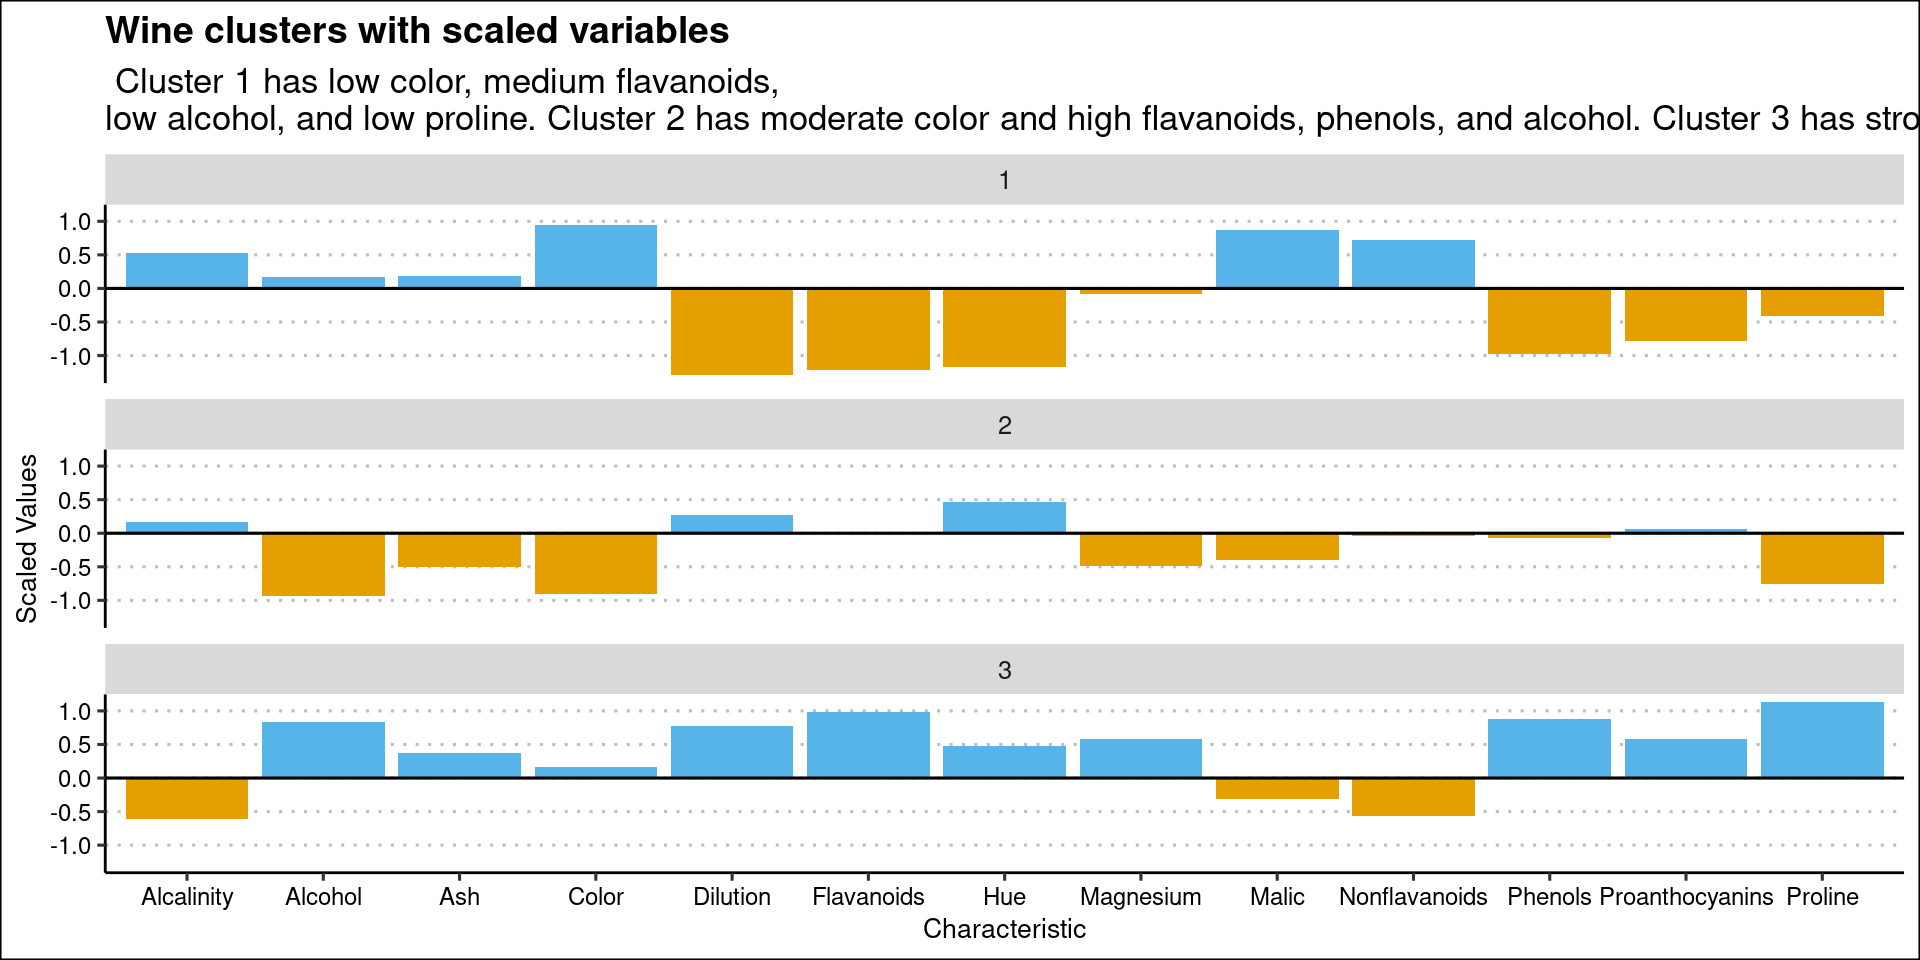
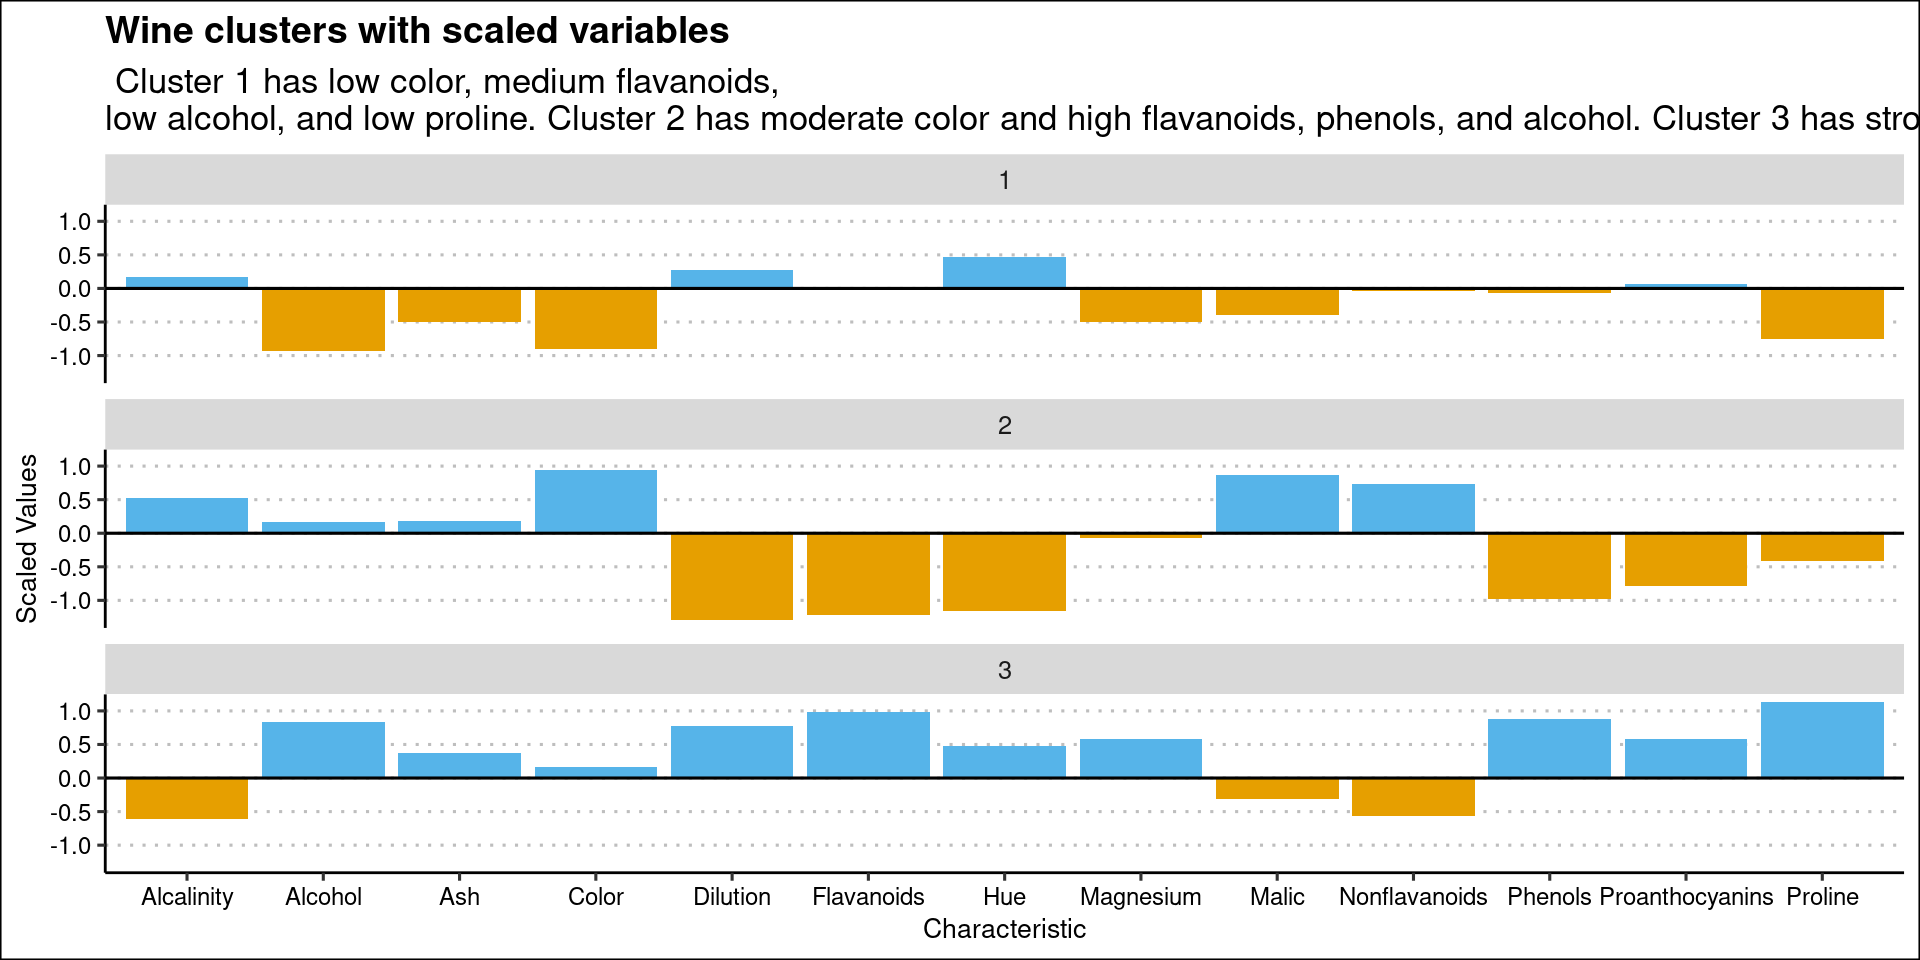
Built site for gh-pages

Changed region(s): [[0.0625, 0.2188, 1.0, 0.4062], [0.0625, 0.4688, 1.0, 0.6562]]

diff --git a/meetups/meetup-11/meetup-11.html b/meetups/meetup-11/meetup-11.html
@@ -685,31 +685,31 @@ George I. Hagstrom
 <span id="cb1-5"><a></a></span>
 <span id="cb1-6"><a></a>wine_clusters</span></code><button title="Copy to Clipboard" class="code-copy-button"><i class="bi"></i></button></pre></div>
 <div class="cell-output cell-output-stdout">
-<pre><code>K-means clustering with 3 clusters of sizes 51, 65, 62
+<pre><code>K-means clustering with 3 clusters of sizes 65, 51, 62
 
 Cluster means:
    .fittedPC1 .fittedPC2   .fittedPC3  .fittedPC4  .fittedPC5  .fittedPC6
-1  2.71238444 -1.1224849 -0.238420685  0.06228125 -0.07346875  0.09964414
-2  0.03685265  1.7672542  0.185615130  0.08001400 -0.07067870  0.12944063
+1  0.03685265  1.7672542  0.185615130  0.08001400 -0.07067870  0.12944063
+2  2.71238444 -1.1224849 -0.238420685  0.06228125 -0.07346875  0.09964414
 3 -2.26979079 -0.9294322  0.001523733 -0.13511700  0.13453261 -0.21766922
     .fittedPC7   .fittedPC8  .fittedPC9 .fittedPC10  .fittedPC11  .fittedPC12
-1 -0.060213318 -0.007367207 -0.01997059  0.06129547  0.008093155  0.003445464
-2 -0.002320739 -0.017964647 -0.03216049  0.02293882  0.013900922  0.004371673
+1 -0.002320739 -0.017964647 -0.03216049  0.02293882  0.013900922  0.004371673
+2 -0.060213318 -0.007367207 -0.01997059  0.06129547  0.008093155  0.003445464
 3  0.051963343  0.024894027  0.05014407 -0.07446923 -0.021230820 -0.007417378
    .fittedPC13
-1  0.050408713
-2  0.008595707
+1  0.008595707
+2  0.050408713
 3 -0.050476861
 
 Clustering vector:
   [1] 3 3 3 3 3 3 3 3 3 3 3 3 3 3 3 3 3 3 3 3 3 3 3 3 3 3 3 3 3 3 3 3 3 3 3 3 3
- [38] 3 3 3 3 3 3 3 3 3 3 3 3 3 3 3 3 3 3 3 3 3 3 2 2 1 2 2 2 2 2 2 2 2 2 2 2 3
- [75] 2 2 2 2 2 2 2 2 2 1 2 2 2 2 2 2 2 2 2 2 2 3 2 2 2 2 2 2 2 2 2 2 2 2 2 2 2
-[112] 2 2 2 2 2 2 2 1 2 2 3 2 2 2 2 2 2 2 2 1 1 1 1 1 1 1 1 1 1 1 1 1 1 1 1 1 1
-[149] 1 1 1 1 1 1 1 1 1 1 1 1 1 1 1 1 1 1 1 1 1 1 1 1 1 1 1 1 1 1
+ [38] 3 3 3 3 3 3 3 3 3 3 3 3 3 3 3 3 3 3 3 3 3 3 1 1 2 1 1 1 1 1 1 1 1 1 1 1 3
+ [75] 1 1 1 1 1 1 1 1 1 2 1 1 1 1 1 1 1 1 1 1 1 3 1 1 1 1 1 1 1 1 1 1 1 1 1 1 1
+[112] 1 1 1 1 1 1 1 2 1 1 3 1 1 1 1 1 1 1 1 2 2 2 2 2 2 2 2 2 2 2 2 2 2 2 2 2 2
+[149] 2 2 2 2 2 2 2 2 2 2 2 2 2 2 2 2 2 2 2 2 2 2 2 2 2 2 2 2 2 2
 
 Within cluster sum of squares by cluster:
-[1] 326.3537 558.6971 385.6983
+[1] 558.6971 326.3537 385.6983
  (between_SS / total_SS =  44.8 %)
 
 Available components:
@@ -737,10 +737,10 @@ Available components:
 <div class="sourceCode cell-code" id="cb3"><pre class="sourceCode numberSource r number-lines code-with-copy"><code class="sourceCode r"><span id="cb3-1"><a></a>wine_clusters<span class="sc">$</span>cluster </span></code><button title="Copy to Clipboard" class="code-copy-button"><i class="bi"></i></button></pre></div>
 <div class="cell-output cell-output-stdout">
 <pre><code>  [1] 3 3 3 3 3 3 3 3 3 3 3 3 3 3 3 3 3 3 3 3 3 3 3 3 3 3 3 3 3 3 3 3 3 3 3 3 3
- [38] 3 3 3 3 3 3 3 3 3 3 3 3 3 3 3 3 3 3 3 3 3 3 2 2 1 2 2 2 2 2 2 2 2 2 2 2 3
- [75] 2 2 2 2 2 2 2 2 2 1 2 2 2 2 2 2 2 2 2 2 2 3 2 2 2 2 2 2 2 2 2 2 2 2 2 2 2
-[112] 2 2 2 2 2 2 2 1 2 2 3 2 2 2 2 2 2 2 2 1 1 1 1 1 1 1 1 1 1 1 1 1 1 1 1 1 1
-[149] 1 1 1 1 1 1 1 1 1 1 1 1 1 1 1 1 1 1 1 1 1 1 1 1 1 1 1 1 1 1</code></pre>
+ [38] 3 3 3 3 3 3 3 3 3 3 3 3 3 3 3 3 3 3 3 3 3 3 1 1 2 1 1 1 1 1 1 1 1 1 1 1 3
+ [75] 1 1 1 1 1 1 1 1 1 2 1 1 1 1 1 1 1 1 1 1 1 3 1 1 1 1 1 1 1 1 1 1 1 1 1 1 1
+[112] 1 1 1 1 1 1 1 2 1 1 3 1 1 1 1 1 1 1 1 2 2 2 2 2 2 2 2 2 2 2 2 2 2 2 2 2 2
+[149] 2 2 2 2 2 2 2 2 2 2 2 2 2 2 2 2 2 2 2 2 2 2 2 2 2 2 2 2 2 2</code></pre>
 </div>
 </div>
 </section>
@@ -753,16 +753,16 @@ Available components:
 <div class="sourceCode cell-code" id="cb5"><pre class="sourceCode numberSource r number-lines code-with-copy"><code class="sourceCode r"><span id="cb5-1"><a></a>wine_clusters<span class="sc">$</span>centers</span></code><button title="Copy to Clipboard" class="code-copy-button"><i class="bi"></i></button></pre></div>
 <div class="cell-output cell-output-stdout">
 <pre><code>   .fittedPC1 .fittedPC2   .fittedPC3  .fittedPC4  .fittedPC5  .fittedPC6
-1  2.71238444 -1.1224849 -0.238420685  0.06228125 -0.07346875  0.09964414
-2  0.03685265  1.7672542  0.185615130  0.08001400 -0.07067870  0.12944063
+1  0.03685265  1.7672542  0.185615130  0.08001400 -0.07067870  0.12944063
+2  2.71238444 -1.1224849 -0.238420685  0.06228125 -0.07346875  0.09964414
 3 -2.26979079 -0.9294322  0.001523733 -0.13511700  0.13453261 -0.21766922
     .fittedPC7   .fittedPC8  .fittedPC9 .fittedPC10  .fittedPC11  .fittedPC12
-1 -0.060213318 -0.007367207 -0.01997059  0.06129547  0.008093155  0.003445464
-2 -0.002320739 -0.017964647 -0.03216049  0.02293882  0.013900922  0.004371673
+1 -0.002320739 -0.017964647 -0.03216049  0.02293882  0.013900922  0.004371673
+2 -0.060213318 -0.007367207 -0.01997059  0.06129547  0.008093155  0.003445464
 3  0.051963343  0.024894027  0.05014407 -0.07446923 -0.021230820 -0.007417378
    .fittedPC13
-1  0.050408713
-2  0.008595707
+1  0.008595707
+2  0.050408713
 3 -0.050476861</code></pre>
 </div>
 </div>
@@ -776,16 +776,16 @@ Available components:
 <div class="sourceCode cell-code" id="cb7"><pre class="sourceCode numberSource r number-lines code-with-copy"><code class="sourceCode r"><span id="cb7-1"><a></a>wine_clusters<span class="sc">$</span>centers</span></code><button title="Copy to Clipboard" class="code-copy-button"><i class="bi"></i></button></pre></div>
 <div class="cell-output cell-output-stdout">
 <pre><code>   .fittedPC1 .fittedPC2   .fittedPC3  .fittedPC4  .fittedPC5  .fittedPC6
-1  2.71238444 -1.1224849 -0.238420685  0.06228125 -0.07346875  0.09964414
-2  0.03685265  1.7672542  0.185615130  0.08001400 -0.07067870  0.12944063
+1  0.03685265  1.7672542  0.185615130  0.08001400 -0.07067870  0.12944063
+2  2.71238444 -1.1224849 -0.238420685  0.06228125 -0.07346875  0.09964414
 3 -2.26979079 -0.9294322  0.001523733 -0.13511700  0.13453261 -0.21766922
     .fittedPC7   .fittedPC8  .fittedPC9 .fittedPC10  .fittedPC11  .fittedPC12
-1 -0.060213318 -0.007367207 -0.01997059  0.06129547  0.008093155  0.003445464
-2 -0.002320739 -0.017964647 -0.03216049  0.02293882  0.013900922  0.004371673
+1 -0.002320739 -0.017964647 -0.03216049  0.02293882  0.013900922  0.004371673
+2 -0.060213318 -0.007367207 -0.01997059  0.06129547  0.008093155  0.003445464
 3  0.051963343  0.024894027  0.05014407 -0.07446923 -0.021230820 -0.007417378
    .fittedPC13
-1  0.050408713
-2  0.008595707
+1  0.008595707
+2  0.050408713
 3 -0.050476861</code></pre>
 </div>
 </div>
@@ -803,7 +803,7 @@ Available components:
 <div class="cell">
 <div class="sourceCode cell-code" id="cb9"><pre class="sourceCode numberSource r number-lines code-with-copy"><code class="sourceCode r"><span id="cb9-1"><a></a>wine_clusters<span class="sc">$</span>withinss</span></code><button title="Copy to Clipboard" class="code-copy-button"><i class="bi"></i></button></pre></div>
 <div class="cell-output cell-output-stdout">
-<pre><code>[1] 326.3537 558.6971 385.6983</code></pre>
+<pre><code>[1] 558.6971 326.3537 385.6983</code></pre>
 </div>
 <div class="sourceCode cell-code" id="cb11"><pre class="sourceCode numberSource r number-lines code-with-copy"><code class="sourceCode r"><span id="cb11-1"><a></a>wine_clusters<span class="sc">$</span>totss</span></code><button title="Copy to Clipboard" class="code-copy-button"><i class="bi"></i></button></pre></div>
 <div class="cell-output cell-output-stdout">

diff --git a/course/schedule.html b/course/schedule.html
@@ -424,8 +424,8 @@ ul.task-list li input[type="checkbox"] {
 <tr class="odd">
 <td>Nov 9</td>
 <td><a href="../modules/module11.html">Clustering</a></td>
-<td></td>
-<td></td>
+<td><a href="../meetups/meetup-11/meetup-11.html">Meetup 11 Slides</a></td>
+<td><a href="https://youtu.be/9h7DbWOiYsY">Meetup 11 Video</a></td>
 <td><a href="../assignments/stories/story6.html">Story 6 assigned</a></td>
 </tr>
 <tr class="even">
